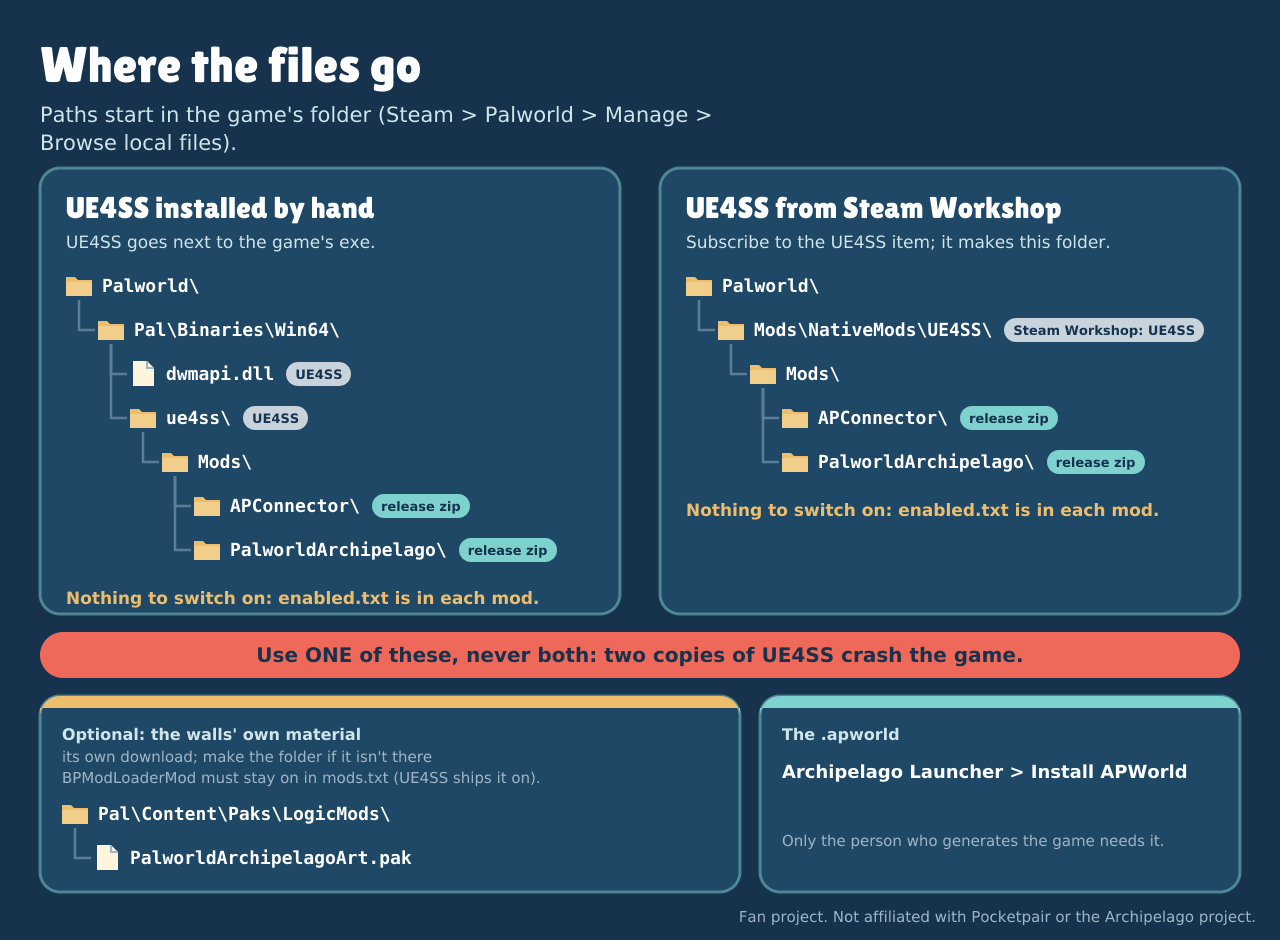
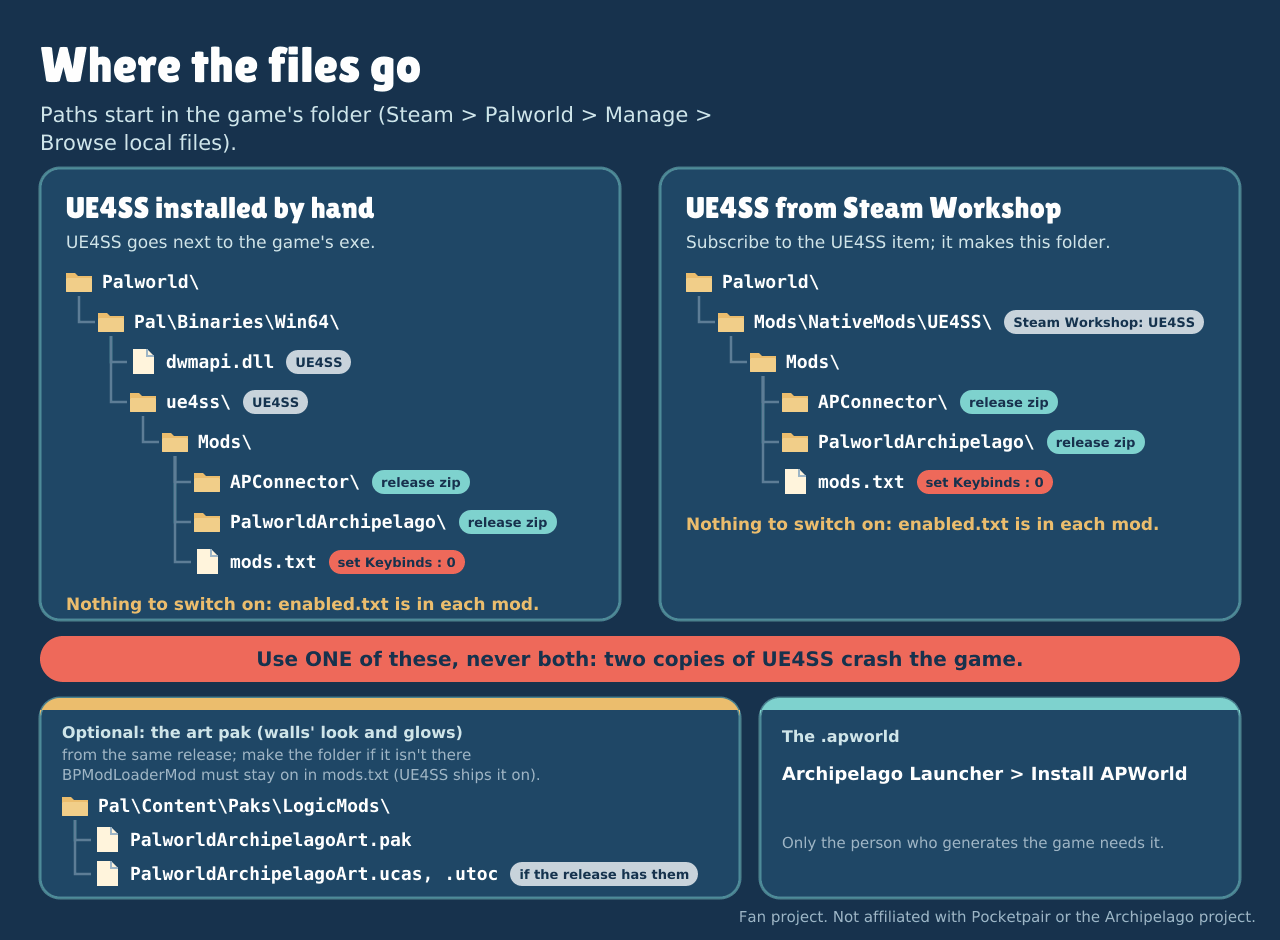
Docs pictures: the mailbox's gear, the passes' names, the regions wall and the Keybinds step
Four pictures had fallen behind the mod:
- mailbox.png: gear now waits in the mailbox, and what is left goes to the bag when it closes;
- legend.png: "Region Pass" and "Progressive Level Pass", the items' real names;
- feature-walls.png: the default regions wall (it showed the paws skin), meeting a wall beyond the goal;
- install-tree.png: the art pak comes in the release and adds the glows, its .ucas/.utoc, and the mods.txt
  "Keybinds : 0" line in both trees.
Made by the Art & Assets lane (Claude) from its own scripts; JustEyeTea picked the drafts. No game art. The README's
and the setup guide's descriptions of the pictures follow them.

Claude-Session: https://claude.ai/code/session_01Bc3bYXpTwEvXxqPSQ4feef

Changed region(s): [[0.0312, 0.2777, 0.9688, 0.9564], [0.5312, 0.2777, 0.9375, 0.5862]]

diff --git a/apworld/palworld/docs/setup_en.md b/apworld/palworld/docs/setup_en.md
@@ -35,7 +35,7 @@ Steam Deck and Proton are not tested. Each player in the multiworld plays their 
 
 ## 2. Install
 
-![Where the files go: UE4SS installed by hand or from the Steam Workshop (never both), the mod folders, the optional art pak and the APWorld](https://raw.githubusercontent.com/JustEyeTea/Palworld-Archipelago-Randomizer/main/art/docs/install-tree.png)
+![Where the files go: UE4SS installed by hand or from the Steam Workshop (never both), the mod folders, the Keybinds line in mods.txt, the optional art pak and the APWorld](https://raw.githubusercontent.com/JustEyeTea/Palworld-Archipelago-Randomizer/main/art/docs/install-tree.png)
 
 1. Find the game's folder: in Steam, right-click Palworld > Manage > Browse local files. It is usually
    `C:\Program Files (x86)\Steam\steamapps\common\Palworld`. The paths below start there.

diff --git a/README.md b/README.md
@@ -41,7 +41,9 @@ No release yet: the first is coming soon.
 
 <img src="art/readme/feature-shop.png" alt="The Technology tree becomes an Archipelago shop" width="800">
 <img src="art/readme/feature-passes.png" alt="Regions open with Region Passes" width="800">
-<img src="art/readme/feature-walls.png" alt="A locked region's wall in the region's colour, with the hint pop-up for its pass" width="800">
+<img src="art/readme/feature-walls.png"
+  alt="A locked region's wall in the region's own look and colour, meeting the grille of a wall beyond the goal,
+  with the hint pop-up for its pass" width="800">
 
 The wall above wears one of the walls' looks. By default, with the art pak, each region's walls show the region's
 own design over its colour.
